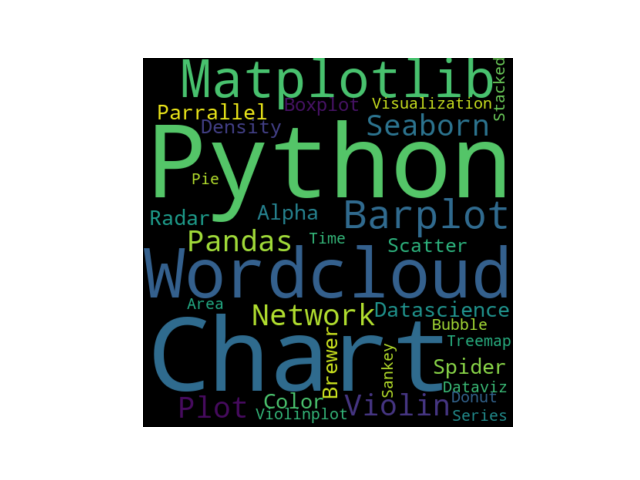
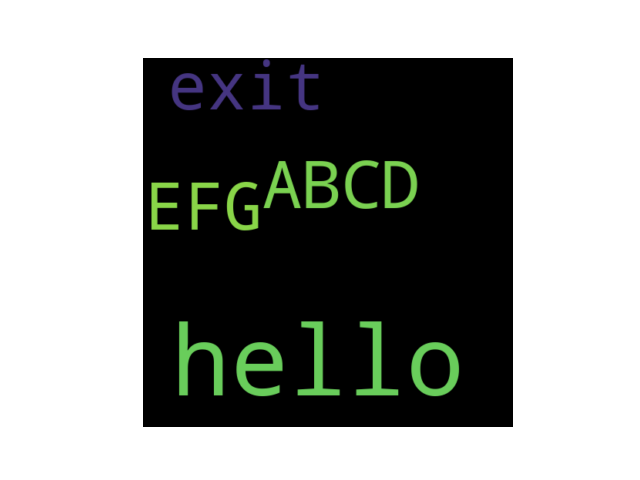
a

Changed region(s): [[0.2188, 0.125, 0.8125, 0.875]]

diff --git a/recorder.py b/recorder.py
@@ -150,7 +150,11 @@ def listen_print_loop(responses):
                 json.dump(all_words, outfile)
 
             # Graph and save graph as png
-            makeWordCloud('hey');
+            text = ""
+            for key, value in all_words.items():
+                for i in range(value):
+                    text += key + " "
+            makeWordCloud(text);
 
             # Exit recognition if any of the transcribed phrases could be
             # one of our keywords.
